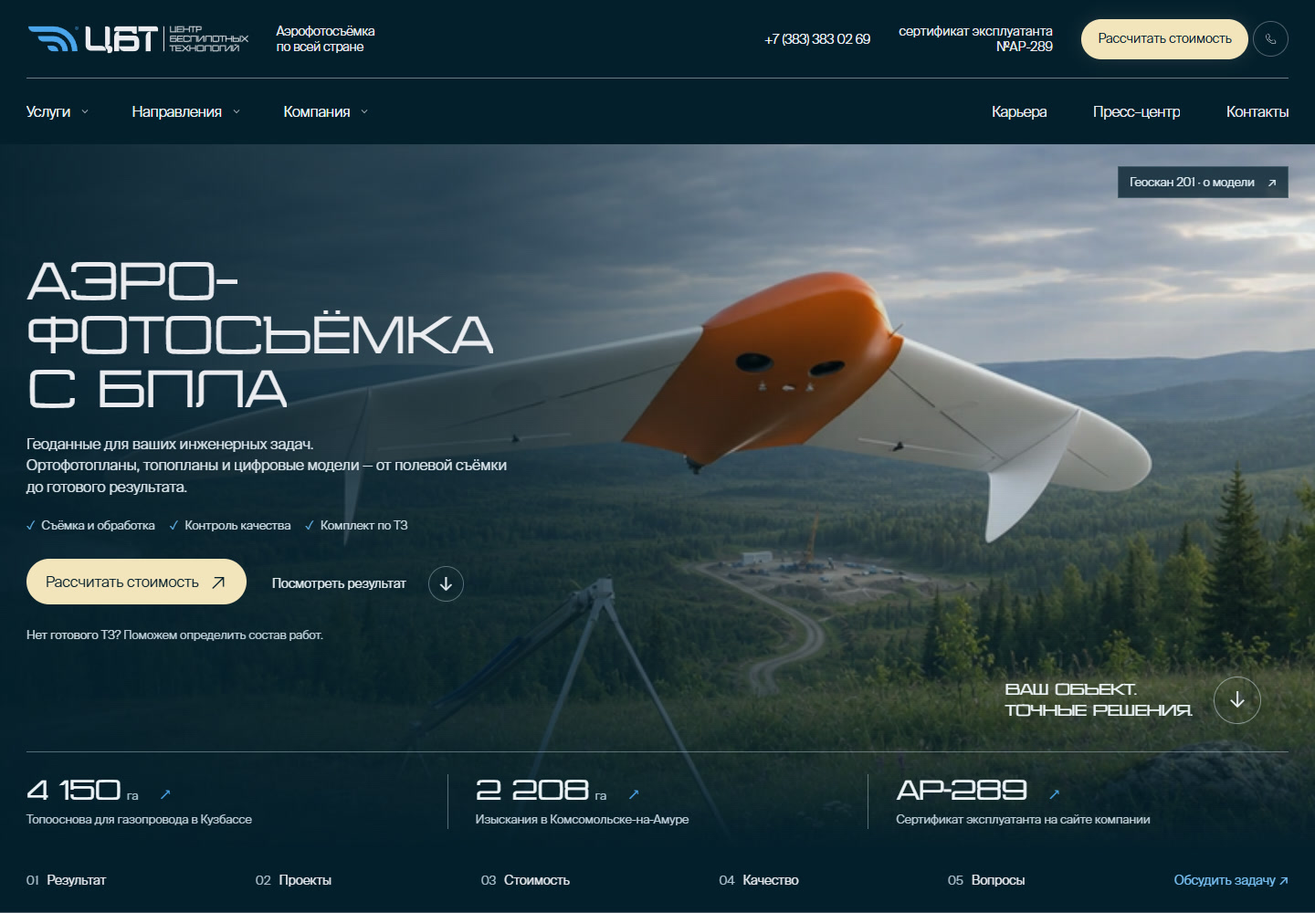
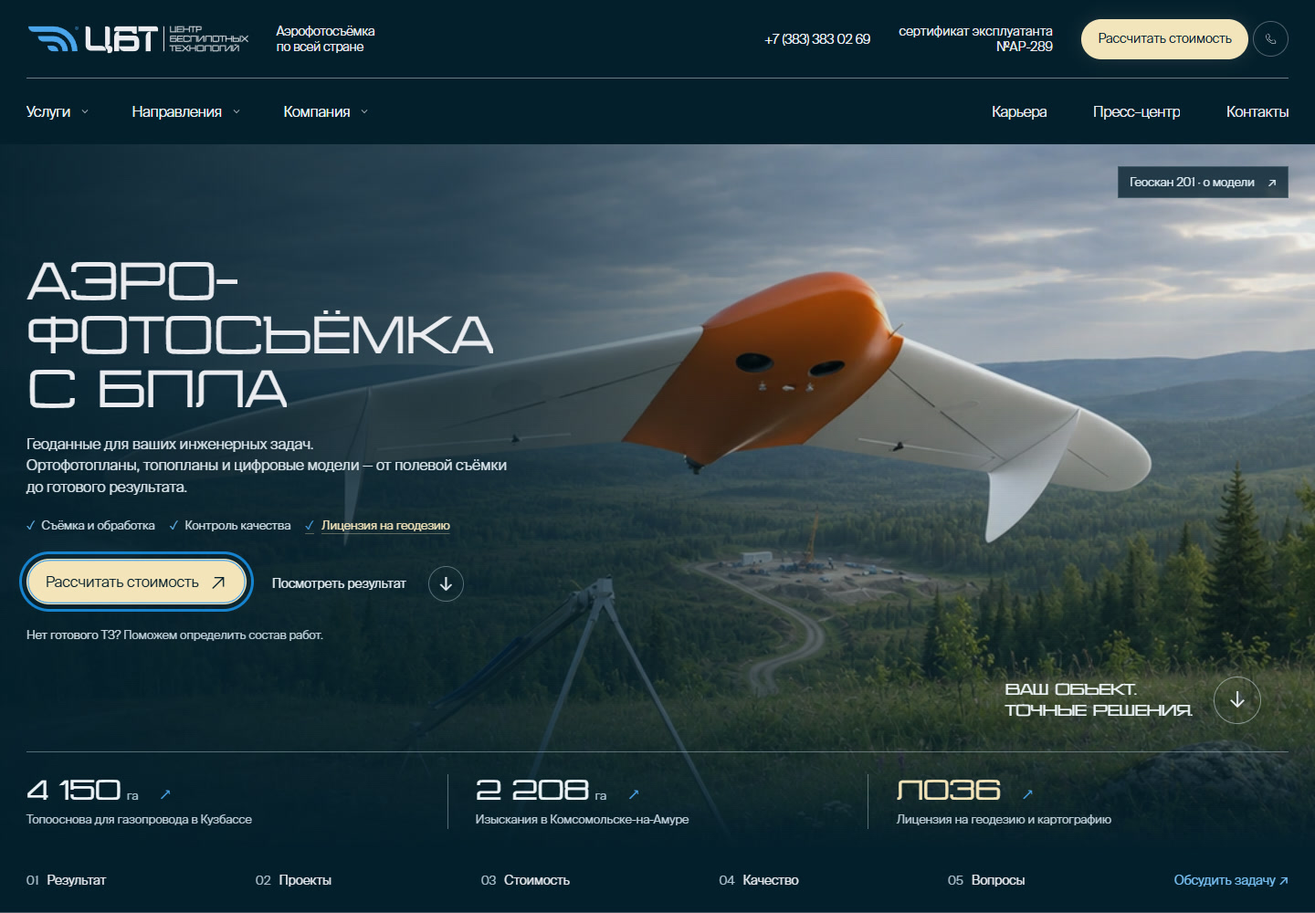
Highlight geodetic license with original register documents

diff --git a/index.html b/index.html
@@ -5,9 +5,9 @@
 <meta charset="utf-8"/><meta content="width=device-width,initial-scale=1" name="viewport"/>
 <title>Аэрофотосъёмка с БПЛА для бизнеса — Центр беспилотных технологий</title>
 <meta content="Аэрофотосъёмка для проектирования, строительства и горных работ. Ортофотопланы, топопланы и цифровые модели. Рассчитайте стоимость и сроки для вашего объекта." name="description"/>
-<meta content="noindex,nofollow" name="robots"/><link href="styles.css" rel="stylesheet"/><link href="assets/favicon.svg" rel="icon" type="image/svg+xml"/><link as="font" crossorigin="" href="assets/SuisseIntl.woff2" rel="preload" type="font/woff2"/><meta content="Аэрофотосъёмка с БПЛА — UAV Center" property="og:title"/><meta content="От полевого сбора до готовых геоданных. Страница услуги Центра беспилотных технологий." property="og:description"/><meta content="website" property="og:type"/><meta content="#041e2c" name="theme-color"/><script defer="" src="app.js?v=8"></script><meta content="https://moriarty32.github.io/uavcenter-uslugi/assets/preview.jpg?v=13" property="og:image"/><meta content="1440" property="og:image:width"/><meta content="1000" property="og:image:height"/><meta content="UAV Center — аэрофотосъёмка с БПЛА под вашу задачу" property="og:image:alt"/><meta content="https://moriarty32.github.io/uavcenter-uslugi/" property="og:url"/><meta content="ru_RU" property="og:locale"/><meta content="summary_large_image" name="twitter:card"/><link href="brand.css?v=2" rel="stylesheet"/><script defer="" src="brand-motion.js?v=5"></script><link href="original-chrome.css?v=3" rel="stylesheet"/><script defer="" src="original-chrome.js?v=4"></script><link href="refinement.css?v=4" rel="stylesheet"/><script defer="" src="estimate.js?v=6"></script><link href="responsive-v5.css?v=10" rel="stylesheet"/>
+<meta content="noindex,nofollow" name="robots"/><link href="styles.css" rel="stylesheet"/><link href="assets/favicon.svg" rel="icon" type="image/svg+xml"/><link as="font" crossorigin="" href="assets/SuisseIntl.woff2" rel="preload" type="font/woff2"/><meta content="Аэрофотосъёмка с БПЛА — UAV Center" property="og:title"/><meta content="От полевого сбора до готовых геоданных. Страница услуги Центра беспилотных технологий." property="og:description"/><meta content="website" property="og:type"/><meta content="#041e2c" name="theme-color"/><script defer="" src="app.js?v=8"></script><meta content="https://moriarty32.github.io/uavcenter-uslugi/assets/preview.jpg?v=14" property="og:image"/><meta content="1440" property="og:image:width"/><meta content="1000" property="og:image:height"/><meta content="UAV Center — аэрофотосъёмка с БПЛА под вашу задачу" property="og:image:alt"/><meta content="https://moriarty32.github.io/uavcenter-uslugi/" property="og:url"/><meta content="ru_RU" property="og:locale"/><meta content="summary_large_image" name="twitter:card"/><link href="brand.css?v=2" rel="stylesheet"/><script defer="" src="brand-motion.js?v=5"></script><link href="original-chrome.css?v=3" rel="stylesheet"/><script defer="" src="original-chrome.js?v=4"></script><link href="refinement.css?v=4" rel="stylesheet"/><script defer="" src="estimate.js?v=6"></script><link href="responsive-v5.css?v=10" rel="stylesheet"/>
 <link href="responsive-v6.css?v=6" rel="stylesheet"/><link href="results-v7.css?v=7" rel="stylesheet"/><link href="client-v8.css?v=8" rel="stylesheet"/><link href="hero-v9.css?v=9" rel="stylesheet"/><script defer="" src="responsive-v5.js?v=13"></script><script defer="" src="hero-v9.js?v=9"></script><link href="buttons.css?v=11" rel="stylesheet"/>
-</head>
+<link href="license.css?v=14" rel="stylesheet"/></head>
 <body class="brand-aligned">
 <noscript><style>.lead-form{display:none}.nojs-note{padding:20px;background:#e4f1fb;color:#092a3c;text-align:center}</style><p class="nojs-note">Для обсуждения объекта позвоните <a href="tel:+73833830269">+7 (383) 383-02-69</a> или напишите <a href="mailto:info@uavcenter.ru">info@uavcenter.ru</a>. Интерактивные элементы доступны при включённом JavaScript.</p></noscript><a class="skip" href="#main">Перейти к содержанию</a>
 <header class="header" id="top"><div class="container header-inner">
@@ -21,13 +21,13 @@
 <div class="hero-main">
 <div class="hero-copy">
 <h1 aria-label="Аэрофотосъёмка с БПЛА">Аэро–<br/>фотосъёмка<br/><span>с БПЛА</span></h1>
-<p class="hero-desc"><span class="hero-desc-desktop">Геоданные для ваших инженерных задач.<br/>Ортофотопланы, топопланы и цифровые модели — от полевой съёмки до готового результата.</span><span class="hero-desc-mobile">Ортофотопланы, топопланы и цифровые модели под вашу инженерную задачу.</span></p><div class="hero-benefits"><span>Съёмка и обработка</span><span>Контроль качества</span><span>Комплект по ТЗ</span></div>
+<p class="hero-desc"><span class="hero-desc-desktop">Геоданные для ваших инженерных задач.<br/>Ортофотопланы, топопланы и цифровые модели — от полевой съёмки до готового результата.</span><span class="hero-desc-mobile">Ортофотопланы, топопланы и цифровые модели под вашу инженерную задачу.</span></p><div class="hero-benefits"><span>Съёмка и обработка</span><span>Контроль качества</span><a class="hero-license-benefit" href="#geodetic-license">Лицензия на геодезию</a></div>
 <div class="hero-actions"><a aria-controls="estimate-dialog" aria-haspopup="dialog" class="btn btn-primary" data-estimate-open="" href="#price"><span class="roll-label"><span class="roll-primary">Рассчитать стоимость</span><span aria-hidden="true" class="roll-secondary">Рассчитать стоимость</span></span><span class="arrow">↗</span></a><a class="text-link" href="#results"><span class="roll-label"><span class="roll-primary">Посмотреть результат</span><span aria-hidden="true" class="roll-secondary">Посмотреть результат</span></span><span>↓</span></a></div>
 <p class="hero-note"><span>Нет готового ТЗ?</span> Поможем определить состав работ.</p>
 </div>
 <div class="hero-aside"><svg aria-hidden="true" class="brand-target" fill="none" viewbox="0 0 100 100"><g stroke="#ebecf1" stroke-width="1.3"><path d="M13 35V13H35M65 13H87V35M87 65V87H65M35 87H13V65"></path><path d="M30 42L22 50L30 58M70 42L78 50L70 58"></path></g><g stroke="#4ba5ec" stroke-width="1.6"><path d="M42 30L50 22L58 30M42 70L50 78L58 70"></path><path d="M42 50H58M50 42V58"></path></g></svg><div class="hero-aside-copy">Ваш объект.<br/>Точные решения.</div><p>Проектирование · строительство<br/>горные работы</p><a aria-label="Перейти к результатам" class="scene-next" href="#results">↓</a></div>
 </div>
-<figure class="hero-aircraft-mobile"><picture><source sizes="calc(100vw - 38px)" srcset="assets/geoscan201-landscape-mobile-640.webp 640w, assets/geoscan201-landscape-mobile-1010.webp 1010w" type="image/webp"/><img alt="БПЛА самолётного типа Геоскан 201 на фоне речной долины" decoding="async" height="470" src="assets/geoscan201-landscape-mobile-1010.webp" width="1010"/></picture><figcaption><span>Геоскан 201 / БПЛА самолётного типа</span><a href="https://www.geoscan.ru/ru/products/geoscan201" rel="noopener" target="_blank">О модели ↗</a></figcaption></figure><div class="hero-stats"><a class="hero-stat" href="#projects"><strong>4 150 <span>га</span><small>↗</small></strong><span>Топооснова для газопровода в Кузбассе</span></a><a class="hero-stat" href="#projects"><strong>2 208 <span>га</span><small>↗</small></strong><span>Изыскания в Комсомольске-на-Амуре</span></a><a class="hero-stat" href="#team"><strong class="stat-document">АР-289<small>↗</small></strong><span>Сертификат эксплуатанта на сайте компании</span></a></div>
+<figure class="hero-aircraft-mobile"><picture><source sizes="calc(100vw - 38px)" srcset="assets/geoscan201-landscape-mobile-640.webp 640w, assets/geoscan201-landscape-mobile-1010.webp 1010w" type="image/webp"/><img alt="БПЛА самолётного типа Геоскан 201 на фоне речной долины" decoding="async" height="470" src="assets/geoscan201-landscape-mobile-1010.webp" width="1010"/></picture><figcaption><span>Геоскан 201 / БПЛА самолётного типа</span><a href="https://www.geoscan.ru/ru/products/geoscan201" rel="noopener" target="_blank">О модели ↗</a></figcaption></figure><div class="hero-stats"><a class="hero-stat" href="#projects"><strong>4 150 <span>га</span><small>↗</small></strong><span>Топооснова для газопровода в Кузбассе</span></a><a class="hero-stat" href="#projects"><strong>2 208 <span>га</span><small>↗</small></strong><span>Изыскания в Комсомольске-на-Амуре</span></a><a class="hero-stat hero-stat-license" href="#geodetic-license"><strong class="stat-document">Л036<small>↗</small></strong><span>Лицензия на геодезию и картографию</span></a></div>
 <a class="hero-photo-credit" href="https://www.geoscan.ru/ru/products/geoscan201" rel="noopener" target="_blank">Геоскан 201 · о модели <span aria-hidden="true">↗</span></a></div></section><nav aria-label="Разделы страницы" class="page-nav"><div class="container"><a href="#results"><span>01</span> Результат</a><a href="#projects"><span>02</span> Проекты</a><a href="#price"><span>03</span> Стоимость</a><a href="#quality"><span>04</span> Качество</a><a href="#faq"><span>05</span> Вопросы</a><a class="jump" href="#brief">Обсудить задачу ↗</a></div></nav><section class="deliverables" id="results"><div class="container">
 <div class="section-head"><div><h2>Данные для<br/><span class="soft">ваших решений</span></h2></div><p>Выберите задачу и посмотрите, какие материалы получит ваша команда. Состав, точность и форматы закрепим в техническом задании.</p></div>
 <div class="result-grid">
@@ -68,7 +68,11 @@
 </div><div class="quality-bottom"><p>Пример выдачи и требования можно обсудить вместе с вашим проектировщиком.</p><a class="text-link" href="#brief"><span class="roll-label"><span class="roll-primary">Обсудить требования с инженером</span><span aria-hidden="true" class="roll-secondary">Обсудить требования с инженером</span></span><span>↗</span></a></div>
 </div></section><section class="trust" id="team"><div class="container"><div class="trust-panel">
 <div class="trust-photo"><div class="trust-media"><img alt="Команда компании на полевых работах, фото из архива сайта" decoding="async" height="365" loading="lazy" src="assets/team.webp" width="505"/></div><div class="trust-photo-note"><strong>Центр беспилотных технологий</strong>Полевые работы и подготовка инженерных материалов</div></div>
-<div class="trust-copy"><h3>За каждым результатом —<br/>люди и опыт.</h3><p>Полевые специалисты и камеральная обработка — в одном проекте. До заключения договора согласуем состав работ, требования к результату и необходимые документы.</p><div class="document"><img alt="Изображение разрешительного документа из материалов компании" decoding="async" height="620" loading="lazy" src="assets/certificate.webp" width="620"/><div><strong>Сертификат эксплуатанта АР-289</strong><a class="text-link" href="https://uavcenter.ru/documents/" rel="noopener" target="_blank"><span class="roll-label"><span class="roll-primary">Лицензии и сертификаты</span><span aria-hidden="true" class="roll-secondary">Лицензии и сертификаты</span></span><span>↗</span></a></div></div></div>
+<div class="trust-copy"><h3>За каждым результатом —<br/>люди и опыт.</h3><p>Полевые специалисты и камеральная обработка — в одном проекте. До заключения договора согласуем состав работ, требования к результату и необходимые документы.</p><div aria-labelledby="geodetic-license-title" class="geodetic-license-card" id="geodetic-license" role="group">
+<a aria-label="Открыть выписку из реестра лицензий на геодезическую и картографическую деятельность" class="geodetic-license-preview" href="assets/documents/geodetic-license-extract.webp" rel="noopener" target="_blank"><img alt="Выписка из реестра лицензий ООО «ЦБТ» — Л036-00116-54/02109758" decoding="async" height="508" loading="lazy" src="assets/geodetic-license-preview.webp" width="360"/></a>
+<div><h4 id="geodetic-license-title">Лицензия на геодезическую и картографическую деятельность</h4><p class="geodetic-license-number">№ Л036-00116-54/02109758</p><p class="geodetic-license-issuer">Выдана 11 апреля 2025 года<br/>Управлением Росреестра по Новосибирской области.</p><div class="geodetic-license-links"><a class="license-document-link" href="assets/documents/geodetic-license-extract.webp" rel="noopener" target="_blank">Открыть выписку <span aria-hidden="true">↗</span></a><a class="license-document-link" href="assets/documents/geodetic-license-notice.webp" rel="noopener" target="_blank">Уведомление о выдаче <span aria-hidden="true">↗</span></a></div></div>
+</div>
+<a class="geodetic-secondary-document" href="assets/certificate.webp" rel="noopener" target="_blank">Сертификат эксплуатанта АР-289 <span aria-hidden="true">↗</span></a></div>
 </div></div></section><section class="section" id="process"><div class="container">
 <div class="section-head"><div><h2>От задачи<br/><span class="soft">к результату</span></h2></div><p>Ваша задача — показать объект и объяснить, для чего нужны данные. Технические требования определяем совместно.</p></div>
 <div class="grid3 process-grid"><article class="process-step"><div class="process-n"><strong>01</strong><span>→</span></div><h3>Уточним задачу и предложим решение</h3><p>Обсудим объект, требования и условия. Определим состав работ, стоимость и график.</p><div class="process-out"><span>Результат этапа</span>Предложение и согласованное ТЗ</div></article><article class="process-step"><div class="process-n"><strong>02</strong><span>→</span></div><h3>Выполним согласованные работы</h3><p>Подготовим полевой этап, соберем и обработаем данные. Изменения объема обсудим отдельно.</p><div class="process-out"><span>Результат этапа</span>Материалы для контроля</div></article><article class="process-step"><div class="process-n"><strong>03</strong><span>↗</span></div><h3>Проверим и передадим комплект</h3><p>Сопоставим результат с заданием. Передадим согласованные файлы и разберем замечания в порядке договора.</p><div class="process-out"><span>Результат этапа</span>Геоданные по вашему заданию</div></article></div>

diff --git a/license.css b/license.css
@@ -1,0 +1,85 @@
+.brand-aligned .hero-benefits .hero-license-benefit {
+  display: inline-flex;
+  align-items: baseline;
+  gap: 8px;
+  color: #f4e4ba;
+  text-decoration: underline;
+  text-decoration-color: #f4e4ba55;
+  text-underline-offset: 4px;
+}
+.hero-license-benefit::before { content: '✓'; color: #4ba5ec; }
+.hero-license-benefit:hover { text-decoration-color: currentColor; }
+.brand-aligned .hero-stat-license .stat-document { color: #f4e4ba; }
+
+.geodetic-license-card {
+  display: grid;
+  grid-template-columns: 94px minmax(0, 1fr);
+  gap: 22px;
+  margin-top: 26px;
+  padding: 24px;
+  border: 1px solid #81b7d977;
+  border-left: 3px solid #f4e4ba;
+  background: #113a50;
+  scroll-margin-top: clamp(96px, 12vw, 180px);
+}
+.geodetic-license-preview { display: block; align-self: start; }
+.geodetic-license-preview img {
+  display: block;
+  width: 100%;
+  height: auto;
+  border: 1px solid #c5dce7;
+  box-shadow: 0 8px 24px #00121e33;
+}
+.geodetic-license-card h4 {
+  margin: 0 0 12px;
+  color: #f4e4ba;
+  font: 400 clamp(19px, 1.45vw, 26px)/1.25 Suisse, Arial, sans-serif;
+  letter-spacing: -.02em;
+}
+.brand-aligned .geodetic-license-card p { margin: 0; font-size: 15px; line-height: 1.5; }
+.brand-aligned .geodetic-license-card .geodetic-license-number {
+  color: #ebecf1;
+  overflow-wrap: anywhere;
+}
+.brand-aligned .geodetic-license-card .geodetic-license-issuer {
+  margin-top: 6px;
+  color: #b9d1df;
+}
+.geodetic-license-links { display: flex; flex-wrap: wrap; gap: 0 22px; margin-top: 12px; }
+.license-document-link {
+  display: inline-flex;
+  align-items: center;
+  gap: 10px;
+  min-height: 44px;
+  color: #f4e4ba;
+  font: 400 15px/1.4 Suisse, Arial, sans-serif;
+  text-decoration: underline;
+  text-decoration-color: #f4e4ba66;
+  text-underline-offset: 5px;
+  transition: color .25s, text-decoration-color .25s;
+}
+.license-document-link:hover { color: #90ccf4; text-decoration-color: currentColor; }
+.geodetic-secondary-document {
+  display: inline-flex;
+  align-items: center;
+  gap: 12px;
+  min-height: 44px;
+  margin-top: 16px;
+  color: #b9d1df;
+  font: 400 15px/1.4 Suisse, Arial, sans-serif;
+}
+.geodetic-secondary-document:hover { color: #90ccf4; }
+
+@media (max-width: 760px) {
+  .geodetic-license-card { grid-template-columns: 72px minmax(0, 1fr); gap: 16px; padding: 18px 16px; scroll-margin-top: 88px; }
+  .geodetic-license-card h4 { font-size: 20px; }
+  .brand-aligned .geodetic-license-card p { font-size: 14px; }
+  .geodetic-license-links { grid-column: 1 / -1; gap: 0 18px; }
+}
+@media (max-width: 400px) {
+  .geodetic-license-card { grid-template-columns: 1fr; }
+  .geodetic-license-preview { width: 74px; }
+}
+@media (prefers-reduced-motion: reduce) {
+  .license-document-link { transition: none; }
+}

diff --git a/README.md b/README.md
@@ -1,5 +1,7 @@
 # UAV Center — страница услуги
 
+Версия 14: выделена лицензия на геодезическую и картографическую деятельность № Л036-00116-54/02109758 от 11.04.2025. Первый экран ссылается на карточку лицензии, в блоке команды доступны оригинальные изображения выписки Росреестра и уведомления о выдаче с сайта компании. Они включены в автономный архив без изменений. Сертификат эксплуатанта АР-289 показан отдельно. `license.css` оформляет акцент и адаптивную карточку.
+
 Версия 13: удалены служебные подписи и декоративные номера над разделами и в карточках. Убрана мобильная перенумерация этих подписей; перенос формы вверх страницы сохранён. На главной убраны резервные отступы под нижнюю строку первого экрана. Данные географии, шаги форм и основные заголовки сохранены.
 
 Версия 12: фон первого экрана заменён на речную долину с лесом, дорогой и удалённой площадкой работ. Геоскан 201, его ракурс и композиция сохранены по исходному изображению. Размеры прежние: 1920×600, 1440×450, 1024×320; мобильные кадры 1010×470 и 640×298. WebP quality 95, кадрирование мобильного изображения прежнее. Подпись ведёт к описанию модели и не приписывает изменённый пейзаж производителю.
